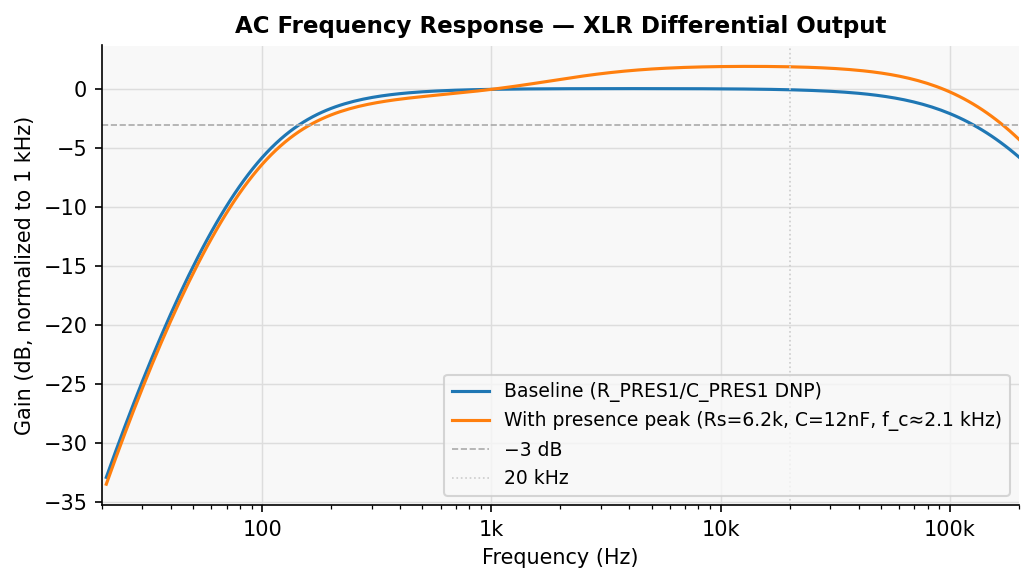
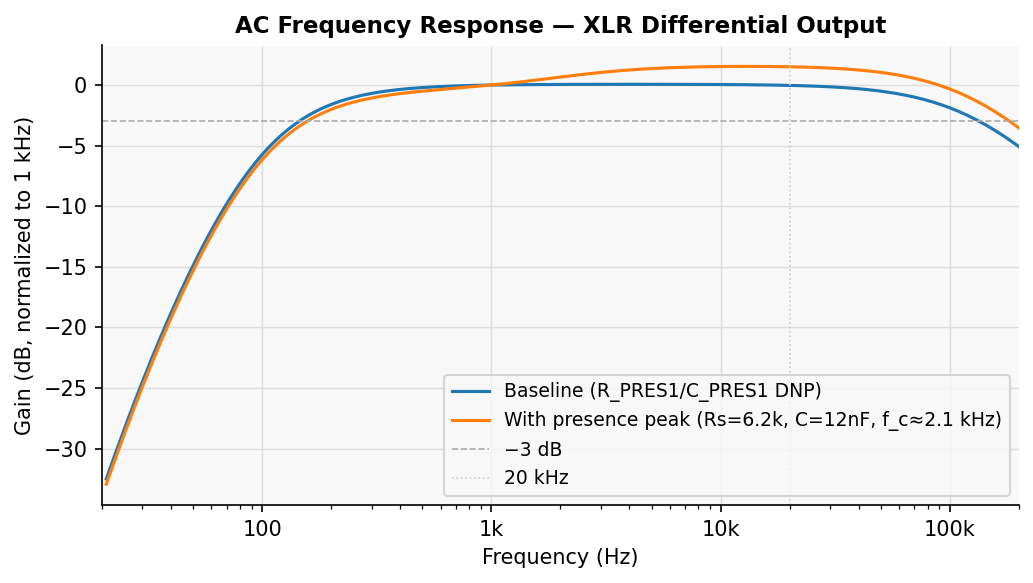
feat: replace LC HV filter with 1MΩ RC (C22935 + C9 470nF)
Sim confirms RC superiority over LC (10mH FNR5040S C167995):
- VBOOST ripple: 13.8mV p-p (100kHz clock)
- LC HV ripple: 10µV p-p (−63dB); RC: ~47nV theory (−109dB); no Q≈18 resonance
- DC drop: 0.67V → V_pol = 55.3V vs 56V → −0.11dB (negligible)
- C22935: Basic 0603 75V ±1%, 2.5M stock vs 5×5mm shielded inductor

Changes:
- gen_schematic.py: Device:L L1 → Device:R R_HV (identical vertical pin offsets)
- gen_pcb.py: FNR5040S 5×5mm → R_0603_1608Metric at same center (32,78.5);
  routing to pad centers ±0.825mm; DRC 0 errors, 0 unconnected
- gen_bom.py: remove C167995, add C22935
- boost_dickson.sp: add wrdata after LC run (plot_all.py reads _hv_tran.dat);
  drop inject_control usage that corrupted .endc on files with .control blocks
- amp_ac.sp: use R6_default (5.6k) not R6_hi_gain (47k) for baseline freq response;
  fix stale R_GBIAS comment (94MΩ→100MΩ)
- plot_all.py: update plot_hv_startup() to run boost_dickson.sp directly
- README: update filter spec, ripple table, polarization voltage, sensitivity
- img/: regenerate all three plots

Closes #7

diff --git a/pcb/gen_pcb.py b/pcb/gen_pcb.py
@@ -241,10 +241,10 @@ def route_all(board):
     # HV NETS  (0.4mm)
     # ════════════════════════════════════════════════════════════════════════
 
-    # ── VBOOST: D2-pad2 → Cres-pad1 → DZ1-pad1, also Cres-pad1 → L1-pad1 ──
+    # ── VBOOST: D2-pad2 → Cres-pad1 → DZ1-pad1, also Cres-pad1 → R_HV-pad1 ──
     # D2 pad2 (VBOOST) at (26.0625, 49.95)
     # Cres pad1 at (28.05, 67.0); Cres pad2 (GND) at (29.95, 67.0)
-    # DZ1 pad1 at (32.0, 67.15); L1 pad1 at (30.15, 78.5)
+    # DZ1 pad1 at (32.0, 67.15); R_HV pad1 at (31.175, 78.5)
     # Route D2-pad2 to horizontal bus at y=65.5 to stay clear of Cres pad2 at y=67
     # x=26.9: Cp2-pad2(25.95,64) right copper=26.3mm; gap=26.9-0.2-26.3=0.4mm
     route(board, "VBOOST", F, HV,
@@ -259,23 +259,23 @@ def route_all(board):
           (28.05, 65.5 ),
           (32.0,  65.5 ),
           (32.0,  67.15))
-    # Cres → L1: x=27.15 stays left of ZT2 hole (r=1.6mm) until y=75, then jog right to pad1
+    # Cres → R_HV: x=27.15 stays left of ZT2 hole (r=1.6mm) until y=75, then jog right to pad1
     # Track ends at y=75→78.5, never reaching V_OPA_RAW F.Cu at y=79.2 (no crossing)
-    # At (30.15,75): dist to ZT2(31,72)=3.12mm > 1.6+0.2+0.25=2.05mm hole clearance OK
+    # At (31.175,75): dist to ZT2(31,72)=3.02mm > 1.6+0.2+0.25=2.05mm hole clearance OK
     route(board, "VBOOST", F, HV,
           (28.05, 67.0),
           (27.15, 67.0),
           (27.15, 75.0),
-          (30.15, 75.0),
-          (30.15, 78.5))
+          (31.175, 75.0),
+          (31.175, 78.5))
 
-    # ── HV_FILT: L1-pad2 → C9-pad1 ───────────────────────────────────────
-    # L1 pad2 at (33.85, 78.5); C9 pad1 at (36.5, 78.0625) [rot=-90, pad1 at top]
+    # ── HV_FILT: R_HV-pad2 → C9-pad1 ────────────────────────────────────
+    # R_HV pad2 at (32.825, 78.5); C9 pad1 at (36.5, 78.0625) [rot=-90, pad1 at top]
     # Approach from left at y=78.5 then up to pad1 — never crosses pad2(GND) at y=79.94
     route(board, "HV_FILT", F, HV,
-          (33.85, 78.5),
-          (36.5,  78.5),
-          (36.5,  78.0625))
+          (32.825, 78.5),
+          (36.5,   78.5),
+          (36.5,   78.0625))
 
     # ── HV_FILT: C9-pad1 → R_GBIAS1-pad2  (long HV rail up right edge) ───
     # R_GBIAS1 pad2 (HV_FILT) at (30.4625,14); run x=37.2 to avoid everything
@@ -998,11 +998,10 @@ def main():
           "DZ1", "68V BZT52C68", 32, 65.5, 90,
           {"1": "VBOOST", "2": "GND"})
 
-    # L1: 10mH LC filter inductor (FNR5040S, 5x5mm, courtyard ±2.8×±2.75mm)
-    # L1 at cy=78.5: top edge at y=75.75 is 3.75mm below ZT2(31,72), clears courtyard r=3.455mm
-    # Pad1 at (30.15,78.5): left edge x=29.45, gap to V_OPA_RAW via right(28.8)=0.65mm OK
-    place(board, "Inductor_SMD", "L_Changjiang_FNR5040S",
-          "L1", "10mH FNR5040S", 32.0, 78.5, 0,
+    # R_HV: 1MΩ RC filter resistor (0603, 1.6×0.8mm, pad pitch 1.65mm)
+    # Center at (32.0,78.5); pad1(VBOOST) at (31.175,78.5), pad2(HV_FILT) at (32.825,78.5)
+    place(board, "Resistor_SMD", "R_0603_1608Metric",
+          "R_HV", "1M 75V 0603", 32.0, 78.5, 0,
           {"1": "VBOOST", "2": "HV_FILT"})
 
     # C9: rot=-90 puts pad1(HV_FILT) at TOP (y=78.06) so HV_FILT track approaches from above

diff --git a/pcb/gen_schematic.py b/pcb/gen_schematic.py
@@ -915,11 +915,11 @@ elements.append(wire(159.65, 128, 159.65, 106.65))  # DZ1.pin1 stub_end → bus
 elements.append(junction(150, 106.65))              # T: bus + Cres1 stub
 elements.append(junction(159.65, 106.65))           # T: bus + DZ1 branch
 
-# ── BLOCK H: LC FILTER (x=183..215, y=108..140) ──────────────────────────────
+# ── BLOCK H: RC HV FILTER (x=183..215, y=108..140) ───────────────────────────
 
-elements += component("Device:L", "L1", "10mH FNR5040S",
+elements += component("Device:R", "R_HV", "1M 75V 0603",
     188, 113,
-    footprint="Inductor_SMD:L_Changjiang_FNR5040S",
+    footprint="Resistor_SMD:R_0603_1608Metric",
     pins={"1": "VBOOST", "2": "~HV_FILT"})
 
 elements += component("Device:C", "C9", "470n 100V X7R",
@@ -927,19 +927,19 @@ elements += component("Device:C", "C9", "470n 100V X7R",
     footprint="Capacitor_SMD:C_0805_2012Metric",
     pins={"1": "~HV_FILT", "2": "GND"})
 
-# HV_FILT local wire: L1.pin2 stub_end (188,119.35) → C9.pin1 stub_end (204,121.65)
+# HV_FILT local wire: R_HV.pin2 stub_end (188,119.35) → C9.pin1 stub_end (204,121.65)
 elements.append(wire(188, 119.35, 204, 119.35))  # horizontal
 elements.append(wire(204, 119.35, 204, 121.65))  # down to C9.pin1 stub_end
 
-# T11: HV_FILT long bus — R_GBIAS1(30,58).pin1 stub_end (30,51.65) to L1.pin2 stub_end (188,119.35)
+# T11: HV_FILT long bus — R_GBIAS1(30,58).pin1 stub_end (30,51.65) to R_HV.pin2 stub_end (188,119.35)
 # Route: up at x=30 to y=2 (one grid above V_OSC bus at y=3, clears V_OPA spine top at y=8.19),
-# right along y=2 to x=185 (avoids L1.pin1 tip at x=188,y=109.19 which would short VBOOST),
-# down to L1.pin2 level, right 3mm to stub_end.
+# right along y=2 to x=185 (avoids R_HV.pin1 tip at x=188,y=109.19 which would short VBOOST),
+# down to R_HV.pin2 level, right 3mm to stub_end.
 elements.append(wire(30, 51.65, 30, 2))           # R_GBIAS1.pin1 stub_end up to top margin
 elements.append(wire(30, 2, 185, 2))              # right along y=2 (one grid above V_OSC at y=3)
-elements.append(wire(185, 2, 185, 119.35))        # down at x=185 (clear of L1.pin1 at x=188)
-elements.append(wire(185, 119.35, 188, 119.35))   # right to L1.pin2 stub_end
-elements.append(junction(188, 119.35))            # T: new bus + existing C9 wire + L1.pin2 stub
+elements.append(wire(185, 2, 185, 119.35))        # down at x=185 (clear of R_HV.pin1 at x=188)
+elements.append(wire(185, 119.35, 188, 119.35))   # right to R_HV.pin2 stub_end
+elements.append(junction(188, 119.35))            # T: new bus + existing C9 wire + R_HV.pin2 stub
 
 # ── POWER FLAGS ───────────────────────────────────────────────────────────────
 

diff --git a/sim/plot_all.py b/sim/plot_all.py
@@ -122,15 +122,11 @@ def parse_wrdata(path):
 # ─── 1. HV STARTUP (boost_dickson.sp) ────────────────────────────────────────
 
 def plot_hv_startup():
+    # boost_dickson.sp has its own .control block (LC vs RC comparison) that writes
+    # _hv_tran.dat with v(vboost)/v(hvfilt) from the LC run (shows startup transient).
     # wrdata format: time v(vboost) time v(hvfilt)  (scale repeated per vector)
     data_path = os.path.join(SIM_DIR, "_hv_tran.dat")
-    ctrl = f"""
-.control
-run
-wrdata {data_path} v(vboost) v(hvfilt)
-.endc"""
-    content = inject_control(os.path.join(SIM_DIR, "boost_dickson.sp"), ctrl)
-    output = run_ngspice_stdout(content, "hv", is_content=True)
+    output = run_ngspice_stdout(os.path.join(SIM_DIR, "boost_dickson.sp"), "hv")
     measures = parse_measure(output)
 
     d = parse_wrdata(data_path)
@@ -142,14 +138,16 @@ wrdata {data_path} v(vboost) v(hvfilt)
     vboost = d[:, 1]
     hvfilt = d[:, 3]
 
-    hv_avg    = measures.get("hv_avg", hvfilt.mean())
-    hv_ripple = measures.get("hv_ripple", float("nan"))
+    hv_avg    = measures.get("hv_avg_lc", hvfilt.mean())
+    hv_max    = measures.get("hv_max_lc", float("nan"))
+    hv_min    = measures.get("hv_min_lc", float("nan"))
+    hv_ripple = hv_max - hv_min
 
     fig, ax = plt.subplots(figsize=(7, 4))
     fig.suptitle("HV Rail — Dickson Charge Pump Startup", fontsize=12, fontweight="bold")
 
     ax.plot(t_ms, vboost, color=C1, lw=1.2, label="V_BOOST (raw)")
-    ax.plot(t_ms, hvfilt, color=C2, lw=1.2, label="HV_FILT (LC filtered)")
+    ax.plot(t_ms, hvfilt, color=C2, lw=1.2, label="HV_FILT (LC ref, startup)")
     ax.axhline(68, color="#aaaaaa", lw=0.8, ls="--", label="68 V target")
     ax.set_xlabel("Time (ms)")
     ax.set_ylabel("Voltage (V)")

diff --git a/pcb/gen_bom.py b/pcb/gen_bom.py
@@ -96,8 +96,8 @@ LCSC = {
     # SMD electrolytic
     ("10u 25V",       "CP_Elec_4x5.4"):            "C3343",     # Honor Elec RVT1E100M0405 D4x5.4mm 2000hrs — C5/C6
 
-    # Inductor
-    ("10mH FNR5040S", "L_Changjiang_FNR5040S"):    "C167995",   # cjiang FNR5040S103MT shielded 5x5mm
+    # HV filter resistor (0603)
+    ("1M 75V 0603",   "R_0603_1608Metric"):         "C22935",    # UNI-ROYAL 0603WAF1004T5E 1MΩ 75V ±1% Basic
 }
 
 # ── KiCad → JLCPCB rotation correction ───────────────────────────────────────

diff --git a/README.md b/README.md
@@ -6,15 +6,15 @@ A code-driven open true condenser microphone. PCB layout, schematic, BOM, and CP
 
 ## Overview
 
-This design uses a Dickson charge pump oscillator to generate a 68 V HV rail from 48 V phantom power, providing ~56 V capsule polarization (V_BOOST − 12 V midpoint), and feeds a transformer-coupled output stage built around a low-noise op-amp. The reference implementation uses the **OPA1641** (2.5 nV/√Hz, JFET input), chosen for its low voltage noise and LCSC availability. The circuit fits on a 36 × 93 mm 2-layer PCB.
+This design uses a Dickson charge pump oscillator to generate a 68 V HV rail from 48 V phantom power, providing ~55 V capsule polarization (HV_FILT − 12 V midpoint), and feeds a transformer-coupled output stage built around a low-noise op-amp. The reference implementation uses the **OPA1641** (2.5 nV/√Hz, JFET input), chosen for its low voltage noise and LCSC availability. The circuit fits on a 36 × 93 mm 2-layer PCB.
 
 **Key design points:**
 - Op-amp output stage; reference design uses OPA1641 (2.5 nV/√Hz voltage noise)
 - NTE10/3 audio transformer, 3:1 step-down, transformer-coupled output
 - CD40106B Schmitt-trigger oscillator + 3-stage active Dickson charge pump
-- 56 V capsule polarization (68 V HV rail, BZT52C68 zener clamp referenced to 12 V midpoint)
-- HV rail LC filter: 10 mH + 470 nF, corner ~2.3 kHz
-- Output sensitivity ~−38 dBV/Pa (R6 = 47 kΩ feedback, R3 = 2.2 kΩ, gain ≈ 22×)
+- 55 V capsule polarization (HV_FILT ≈ 67.3 V, BZT52C68-clamped, referenced to 12 V midpoint)
+- HV rail RC filter: 1 MΩ (R_HV) + 470 nF, corner ~0.34 Hz; no LC resonance
+- Output sensitivity ~−48 dBV/Pa default (R6 = 5.6 kΩ, gain ≈ 3.5×); ~−38 dBV/Pa hi-gain (R6 = 47 kΩ, gain ≈ 22×)
 - RFI filter on XLR output: differential RC network (R_RFI1/R_RFI2 + C_RFI1/C_RFI2)
 - Phantom power draw: ~2.4–3 mA typical (IEC 61938 limit: 14 mA)
 - All SMD/THT components available from standard distributors (LCSC, Mouser, Digi-Key); capsule and transformer are customer-supplied
@@ -26,15 +26,16 @@ Run with ngspice from `sim/` (see [Running Simulations](#running-simulations)):
 | Parameter | Simulated | Notes |
 |---|---|---|
 | V_BOOST steady-state | 67.97 V | target 68.2 V, DZ1-clamped |
-| HV_FILT ripple | 10.7 µV p-p | L1=10 mH, C9=470 nF, 10–15 ms window |
-| LC filter corner | ~2.3 kHz | startup resonance; dissipates in seconds |
-| Capsule polarization | ~56 V | V_BOOST (68 V) − V_MID (12 V) at steady state |
+| HV_FILT DC | 67.30 V | 0.67 V drop across R_HV (1 MΩ × 0.67 µA load) |
+| HV_FILT ripple | ~47 nV p-p calc | RC at 100 kHz: −109 dB; LC ref sim: 10 µV p-p |
+| RC filter corner | ~0.34 Hz | R_HV=1 MΩ × C9=470 nF; no LC resonance |
+| Capsule polarization | ~55 V | HV_FILT (67.3 V) − V_MID (12 V) at steady state |
 
 ### HV Rail Startup (`boost_dickson.sp`)
 
 ![HV startup](img/hv_startup.png)
 
-Charge pump settles to 67.97 V within ~1 ms. HV_FILT (LC-filtered polarization rail) ripple is 10.7 µV p-p at steady state.
+Charge pump settles to ~68 V within ~1 ms. HV_FILT (RC-filtered, 1 MΩ + 470 nF) steady-state is 67.3 V (0.67 V drop across R_HV); theoretical ripple ~47 nV p-p at 100 kHz (−109 dB). Plot shows LC reference run (IC=60 V) for startup transient visibility.
 
 ### AC Frequency Response (`amp_ac.sp`)
 